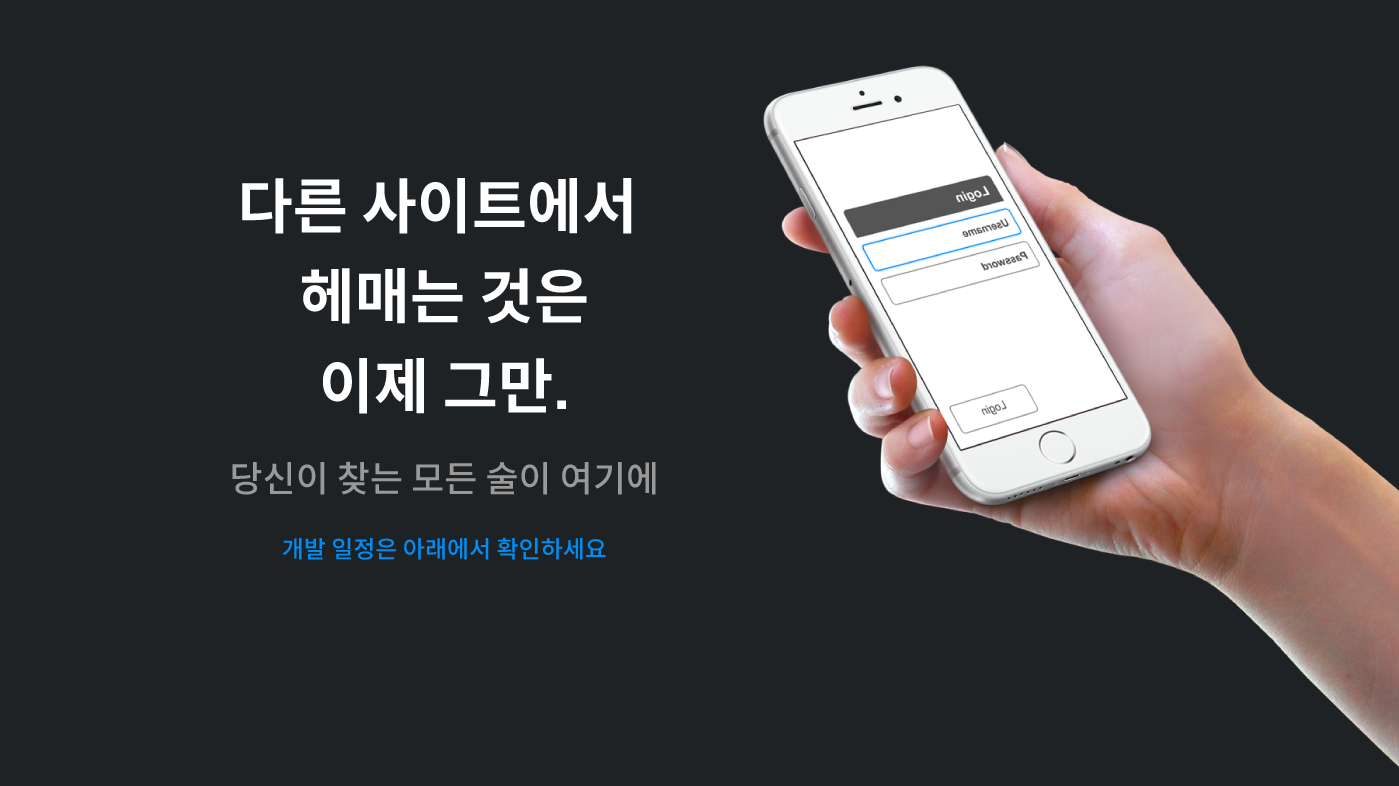
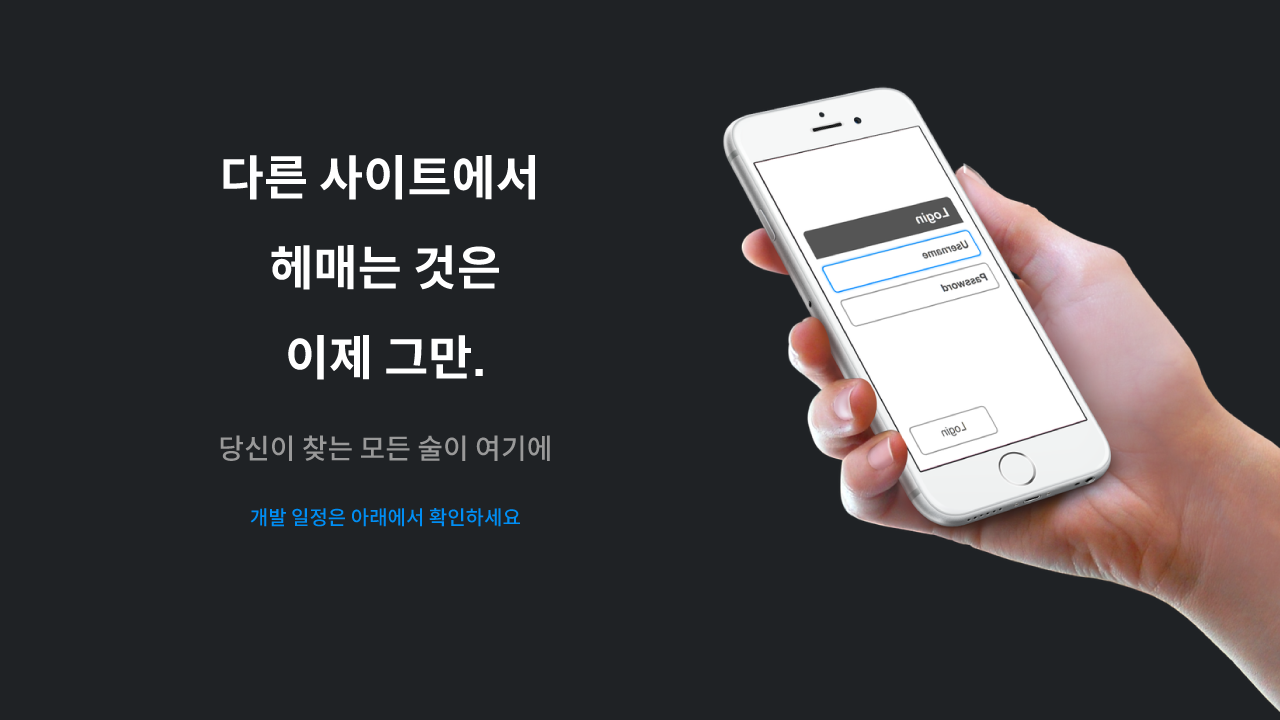
font 적용 후 이미지 추가

diff --git a/front/components/index/Main.vue b/front/components/index/Main.vue
@@ -1,0 +1,96 @@
+<template>
+  <body>
+    <div class="main">
+      <div class="content-position content1">
+        <div class="bg-position img1">
+          <div class="textbox1">
+            <h3>모두의 테이스팅 노트</h3>
+            <h1 class="mt-1 mb-1">
+              세계의 모든 술이, 한자리에.
+            </h1>
+            <h1>BYOB</h1>
+          </div>
+        </div>
+      </div>
+      <div class="content-position content2">
+        <div class="bg-position img2">
+          <div class="textbox2" />
+        </div>
+      </div>
+      <div class="content-position content3">
+        <div class="bg-position img3">
+          <div class="textbox3" />
+        </div>
+      </div>
+    </div>
+  </body>
+</template>
+
+<script>
+export default {
+  name: 'Main'
+}
+</script>
+
+<style lang="scss" scoped>
+.main {
+  z-index: 0;
+  overflow: hidden;
+  @include flex($w: wrap);
+
+  .content-position {
+    @include rel;
+    height: 0;
+    padding-top: 56.25%;
+  }
+  .bg-position {
+    @include abs;
+    width:100%;
+    height:100%;
+  background-repeat: no-repeat;
+  background-position: center;
+  background-size: contain;
+}
+  @include XS {
+      .img1 {
+        background-image: url("~assets/img/main/main_xs_1_(576x324).png");
+      }
+      .img2 {
+        background-image: url("~assets/img/main/main_xs_2_(576x324).png");
+      }
+      .img3 {
+        background-image: url("~assets/img/main/main_xs_3_(576x324).png");
+      }
+  }
+
+  //   .textbox1 {
+  //     @include abs;
+  //     width: 100%;
+  //     text-align: center;
+  //     margin-top: 10%;
+
+  //     h3 {
+  //       color: $grey-color;
+  //       font-weight: 500;
+  //       font-size: 3vh;
+  //     }
+
+  //     h1 {
+  //       color: $black-color;
+  //       font-weight: 700;
+  //       font-size: 5vh;
+  //     }
+  //   }
+  // }
+
+// .content1 {
+//   width: 100%;
+//   height: 100vh;
+//   background-color: $white-color;
+//   padding: 0 10%;
+
+//   @include LG {
+//     padding: 0 0;
+//   }
+}
+</style>

diff --git a/front/nuxt.config.js b/front/nuxt.config.js
@@ -14,14 +14,15 @@ export default {
       { name: 'format-detection', content: 'telephone=no' }
     ],
     link: [
-      { rel: 'icon', type: 'image/png', href: '/favicon.png' }
+      { rel: 'icon', type: 'image/png', href: '/favicon.png' },
+      { rel: 'stylesheet', type: 'text/css', href: '~/assets/fonts/fonts.css' }
+      // 한글 폰트 SpoqaHanSansNeo, 영어 폰트 Inter
+
     ]
   },
 
   // Global CSS: https://go.nuxtjs.dev/config-css
   css: [
-    // 한글 폰트 SpoqaHanSansNeo, 영어 폰트 Inter
-    '~/assets/fonts/fonts.css'
   ],
   // Plugins to run before rendering page: https://go.nuxtjs.dev/config-plugins
   plugins: [

diff --git a/front/components/inc/TopNavi.vue b/front/components/inc/TopNavi.vue
@@ -27,7 +27,7 @@ export default {
   }
   .search input{
     width: 300px;
-    height: 40px;
+    height: 30px;
     font-size: .7em;
     border: 1px solid $dark-color;
     @include MD {
@@ -35,12 +35,12 @@ export default {
     }
   }
     .account .user {
-    width: 40px;
-    height: 40px;
+    width: 30px;
+    height: 30px;
     border-radius: 50%;
     background-color: $white-color;
     border: 1px solid $dark-color;
-    font-size: 1.5em;
+    font-size: 1em;
     @include flex($v: center, $h: center);
     margin-right: 0.5em;
    }

diff --git a/front/pages/index.vue b/front/pages/index.vue
@@ -1,13 +1,19 @@
 <template>
-  <Main />
+  <body>
+    <Main />
+    <Feature />
+    <Schedule />
+  </body>
 </template>
 
 <script>
-import Main from '~/components/main/Main.vue'
+import Main from '~/components/index/Main.vue'
+import Feature from '~/components/index/Feature.vue'
+import Schedule from '~/components/index/Schedule.vue'
 
 export default {
   components: {
-    Main
+    Main, Feature, Schedule
   }
 }
 </script>

diff --git a/front/assets/scss/mixins.scss b/front/assets/scss/mixins.scss
@@ -56,24 +56,28 @@
 	}
 }
 
+// 큰 데스크탑
 @mixin LG {
 	@media screen and (max-width: $lg) {
 		@content;
 	}
 }
 
+// 데스크탑
 @mixin MD {
 	@media screen and (max-width: $md) {
 		@content;
 	}
 }
 
+// 타블렛
 @mixin SM {
 	@media screen and (max-width: $sm) {
 		@content;
 	}
 }
 
+// 스마트폰 가로
 @mixin XS {
 	@media screen and (max-width: $xs) {
 		@content;

diff --git a/front/assets/scss/common.scss b/front/assets/scss/common.scss
@@ -1,13 +1,10 @@
 @import './mixins';
 
-html {
-font-family: 'Spoqa Han Sans Neo', !important;
-}
-
 html, body, h1, h2, h3, h4, h5, h6, p, div, form, /* input, textarea, */ table, td, th, header, section, aside, footer, article, nav, ul, ol, li {
   margin: 0;
   padding: 0;
   box-sizing: border-box;
+  font-family: 'Spoqa Han Sans Neo', sans-serif !important; 
 }
 ul,
 ol {

diff --git a/front/assets/scss/variables.scss b/front/assets/scss/variables.scss
@@ -1,3 +1,5 @@
+/* Default font */
+
 /* Default font-size */
 $font-size: 16px;
 
@@ -18,8 +20,8 @@ $wrapper-width: 400px;
 $gutter-width: 1em;
 
 /* Responsive Size */
-$xl: 1399px;
-$lg: 1199px;
-$md: 991px;
-$sm: 767px;
-$xs: 575px;
+$xl: 1399.98px;
+$lg: 1199.98px;
+$md: 991.98px;
+$sm: 767.98px;
+$xs: 575.98px;

diff --git a/front/components/inc/TopLogo.vue b/front/components/inc/TopLogo.vue
@@ -15,12 +15,11 @@ export default {
 <style lang="scss" scoped>
 .top-logo {
   @include flex;
+  @include flex($v: center, $h:center);
+  padding: 0.75em;
+
   @include SM {
     display: none;
-  }
-  a {
-    @include flex($v: center, $h:center);
-    padding: 0.75em;
   }
 }
 </style>

diff --git a/front/components/inc/TopHeader.vue b/front/components/inc/TopHeader.vue
@@ -37,7 +37,7 @@ export default {
     .header-wrap {
     width: 1080px;
     max-width: 100%;
-    height: 60px;
+    height: 50px;
     @include flex($h: space-between, $v: center);
     }
 

diff --git a/front/components/inc/TopLogoMobile.vue b/front/components/inc/TopLogoMobile.vue
@@ -17,10 +17,6 @@ export default {
   display: none;
   @include SM {
     display: block;
-    a {
-    @include flex($v: center, $h:center);
-    padding: 0.75em;
-  }
 }
 }
 </style>

diff --git a/front/components/index/Schedule.vue b/front/components/index/Schedule.vue
@@ -1,0 +1,9 @@
+<template>
+  <body />
+</template>
+
+<script>
+export default {
+  name: 'Schedule'
+}
+</script>

diff --git a/front/components/index/Feature.vue b/front/components/index/Feature.vue
@@ -1,0 +1,9 @@
+<template>
+  <body />
+</template>
+
+<script>
+export default {
+  name: 'Feature'
+}
+</script>
